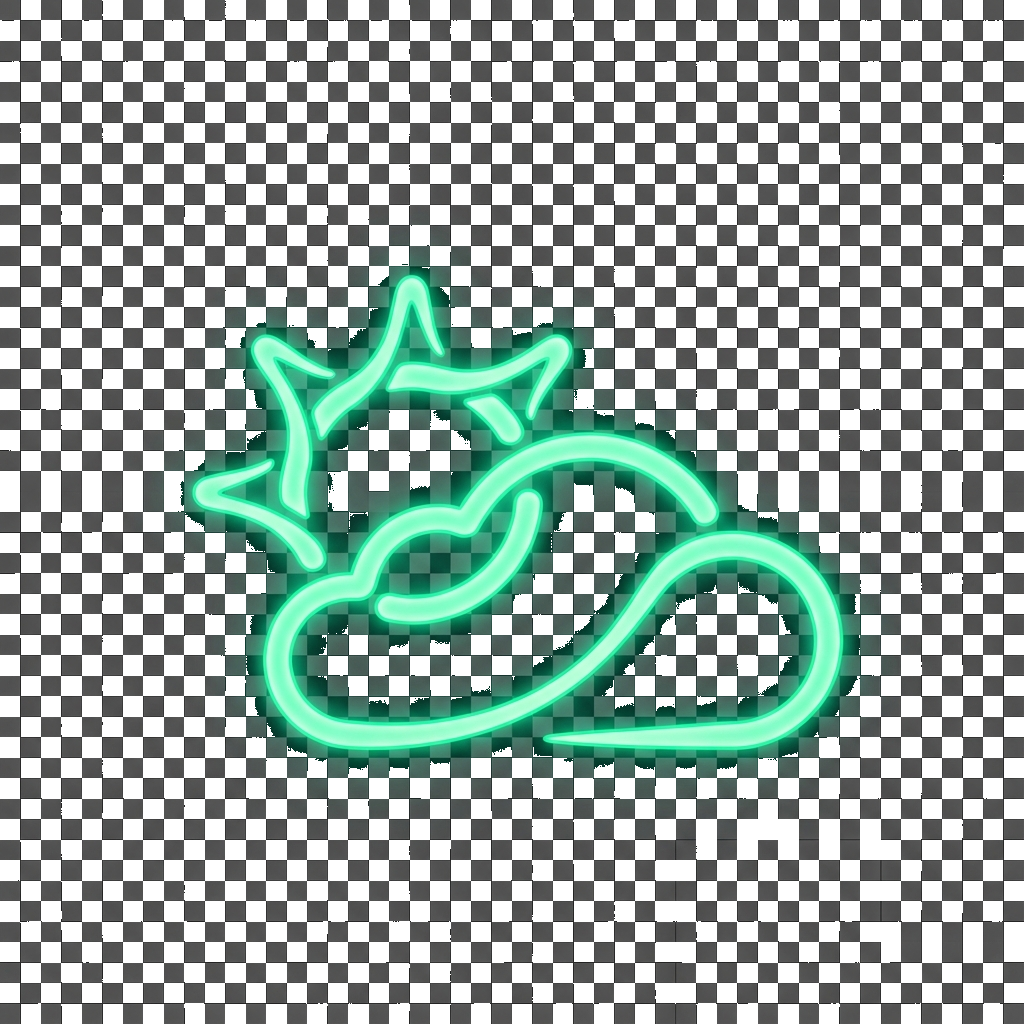
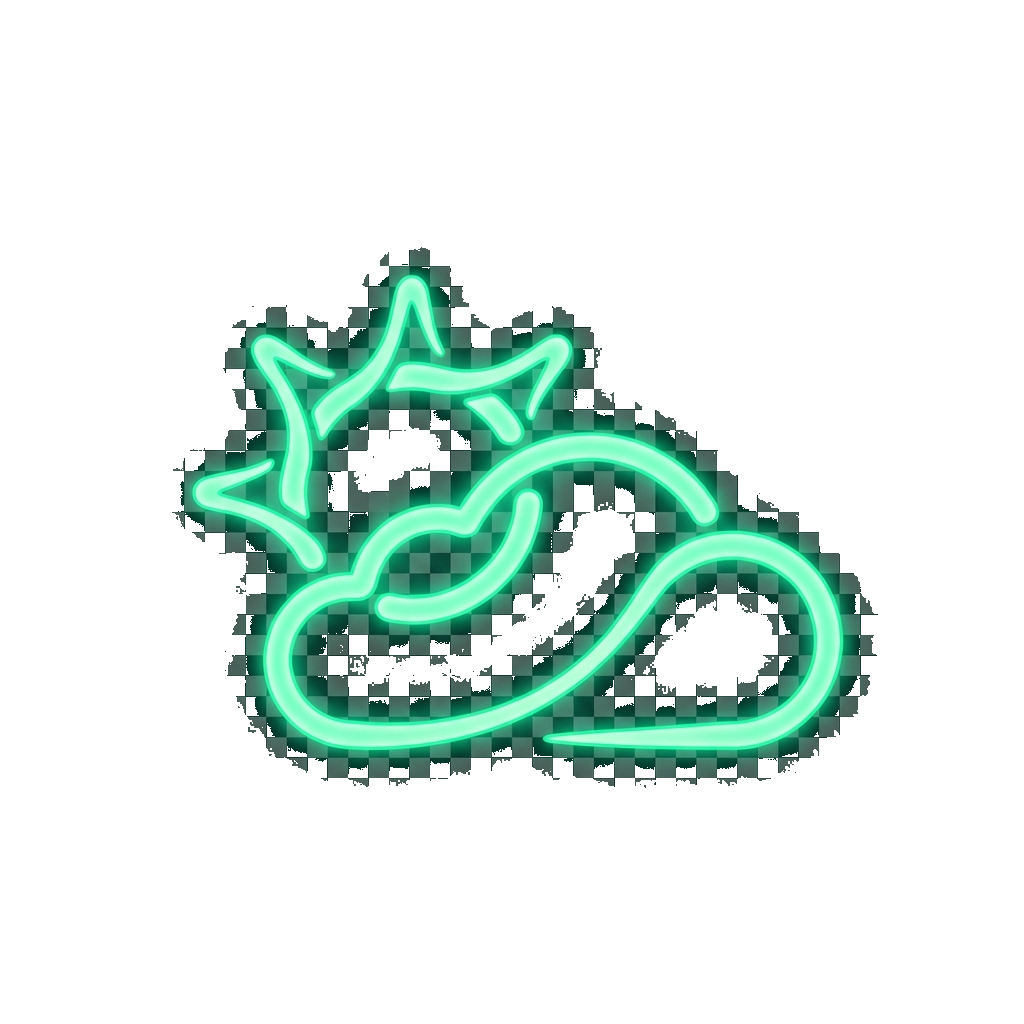
auto-save 20251216_082535

diff --git a/lib/shared/presentation/widgets/weather_bubble_widget.dart b/lib/shared/presentation/widgets/weather_bubble_widget.dart
@@ -74,18 +74,17 @@ class WeatherBubbleWidget extends ConsumerWidget {
                       // ICÔNE (seule information visuelle immédiate)
                       FutureBuilder(
                         future: () async {
-                           // FORCE HARDCODED PATH FOR DIAGNOSIS
-                           const path = 'assets/weather_icons/thunderstorm.png'; 
+                           final path = weather.icon ?? 'assets/weather_icons/sunny.png';
                            try {
                              await rootBundle.load(path);
-                             debugPrint('WeatherBubble HARDCODED Asset FOUND: $path');
+                             debugPrint('WeatherBubble Asset FOUND: $path');
                            } catch (e) {
-                             debugPrint('WeatherBubble HARDCODED Asset MISSING: $path -> $e');
+                             debugPrint('WeatherBubble Asset MISSING: $path -> $e');
                            }
                            return true;
                         }(),
                         builder: (c, s) => Image.asset(
-                          'assets/weather_icons/thunderstorm.png', // HARDCODED
+                          weather.icon ?? 'assets/weather_icons/sunny.png',
                           width: iconSize,
                           height: iconSize,
                           errorBuilder: (context, error, stackTrace) => Icon(

diff --git a/aggressive_remove_bg.py b/aggressive_remove_bg.py
@@ -1,0 +1,54 @@
+from PIL import Image
+import os
+
+def aggressive_remove_bg(path):
+    try:
+        img = Image.open(path).convert("RGBA")
+        datas = img.getdata()
+        
+        print(f"Aggressively processing {path}...")
+        
+        newData = []
+        for item in datas:
+            r, g, b, a = item
+            
+            # Heuristic 1: If it's a transparency checkerboard grey
+            # Checkerboards are usually 204 or 255. But here we see 40-100.
+            # It seems the model generated a "dark mode" checkerboard or just dark background.
+            
+            # Simple luminance
+            lum = 0.299*r + 0.587*g + 0.114*b
+            
+            # Saturation approximation: diff between max and min channel
+            sat = max(r,g,b) - min(r,g,b)
+            
+            # Logic:
+            # 1. If it's very dark (black background), transparent.
+            # 2. If it's grey (low saturation) and not super bright (white), transparent.
+            
+            is_dark = lum < 120 # Cover the 96,96,96 greys
+            is_grey = sat < 20   # Greyish
+            
+            # We want to keep the neon green. Neon green has high saturation (green >> red/blue).
+            # So if it's grey-ish and dark-ish, kill it.
+            
+            if is_dark and is_grey:
+                newData.append((0, 0, 0, 0)) # Fully transparent
+            elif lum < 30: 
+                # Kill pure blacks even if slight color noise
+                newData.append((0, 0, 0, 0)) 
+            else:
+                # To smoothen edges, we could lower alpha for semi-dark pixels, but simple threshold first.
+                newData.append(item)
+        
+        img.putdata(newData)
+        img.save(path, "PNG")
+        print(f"Saved {path}")
+            
+    except Exception as e:
+        print(f"Error processing {path}: {e}")
+
+directory = 'assets/weather_icons'
+for filename in os.listdir(directory):
+    if filename.endswith(".png"):
+        aggressive_remove_bg(os.path.join(directory, filename))

diff --git a/analyze_pixels.py b/analyze_pixels.py
@@ -1,0 +1,34 @@
+from PIL import Image
+import collections
+
+def analyze_pixels(path):
+    try:
+        im = Image.open(path).convert("RGBA")
+        print(f"Analyzing {path} ({im.size})")
+        
+        # Sample corners and center
+        w, h = im.size
+        samples = [
+            (0, 0), (w-1, 0), (0, h-1), (w-1, h-1), # Corners
+            (w//2, h//2), # Center
+            (5, 5), (10, 10) # Near corner
+        ]
+        
+        print("Sample pixels (RGBA):")
+        for x, y in samples:
+            if 0 <= x < w and 0 <= y < h:
+                print(f"  ({x},{y}): {im.getpixel((x,y))}")
+        
+        # histogram of colors to find common background colors
+        colors = im.getcolors(maxcolors=256*256)
+        if colors:
+            print("\nMost common colors (count, color):")
+            # Sort by count desc
+            sorted_colors = sorted(colors, key=lambda x: x[0], reverse=True)
+            for count, color in sorted_colors[:10]:
+                print(f"  {count}: {color}")
+                
+    except Exception as e:
+        print(f"Error: {e}")
+
+analyze_pixels('assets/weather_icons/thunderstorm.png')
